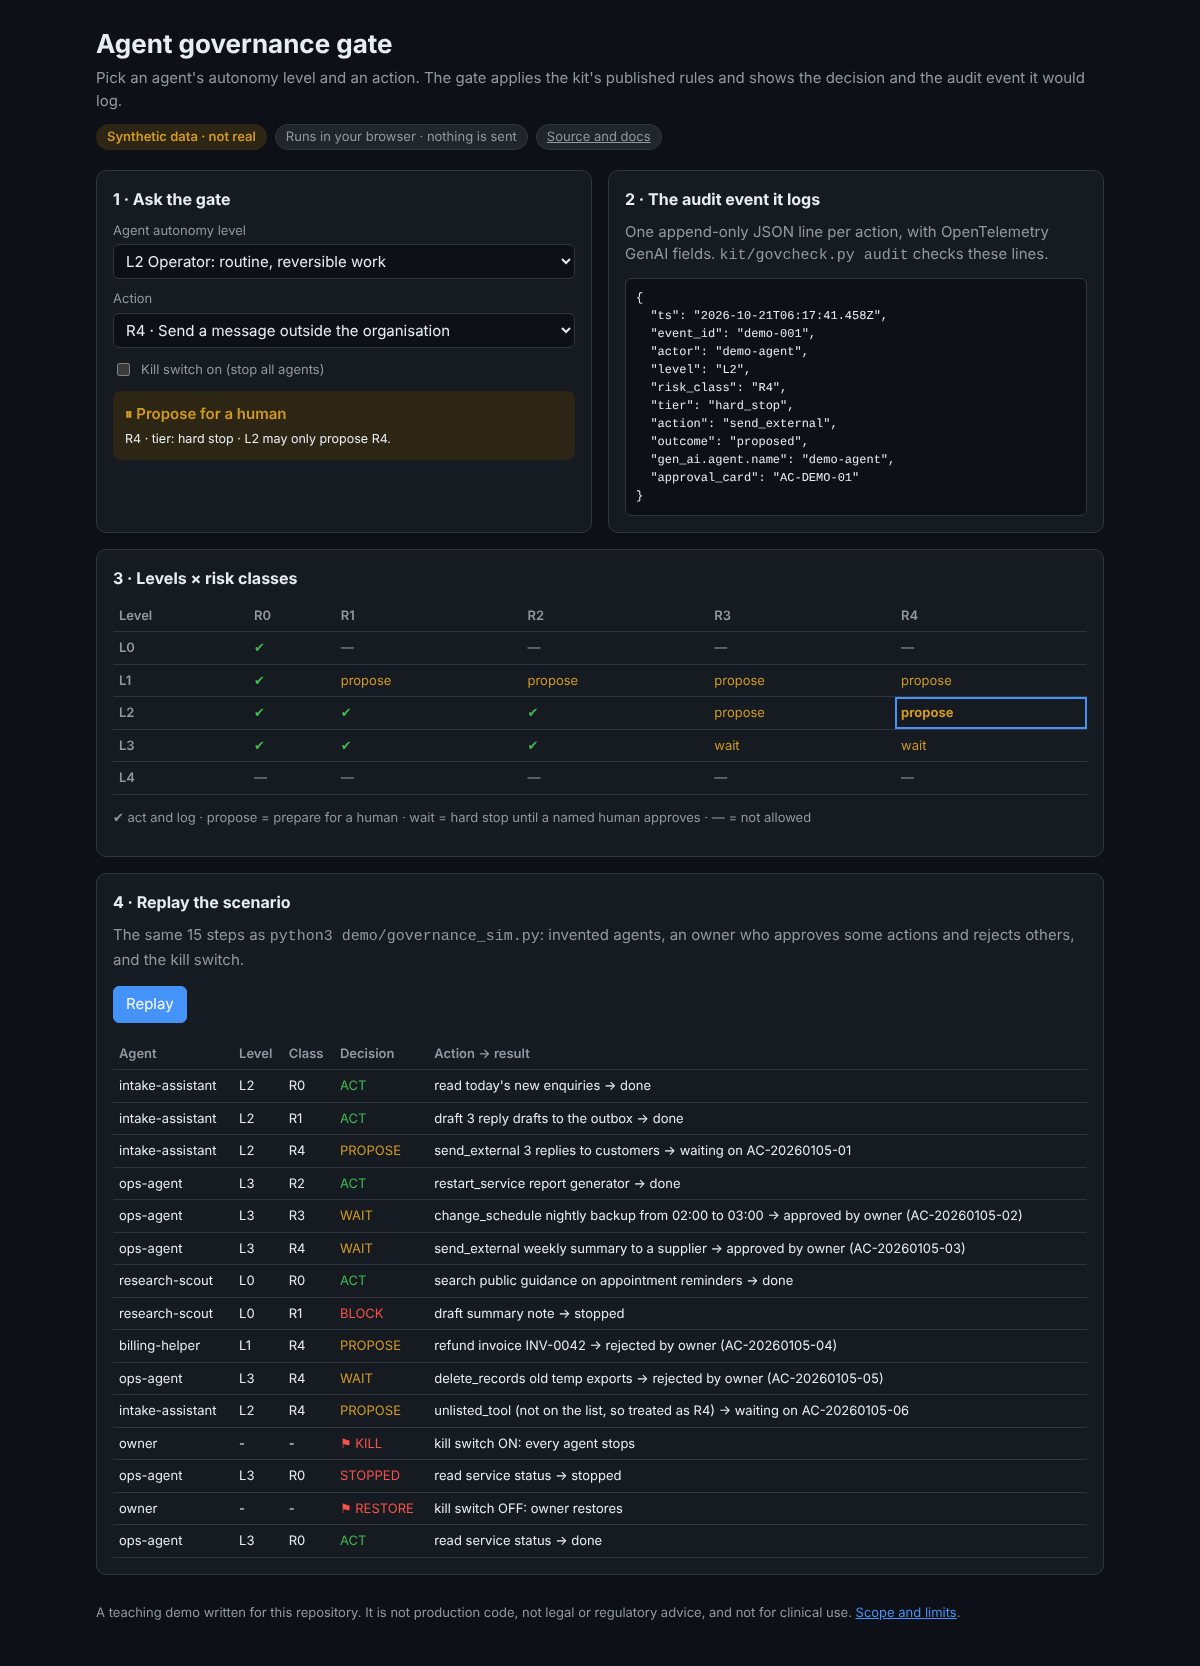
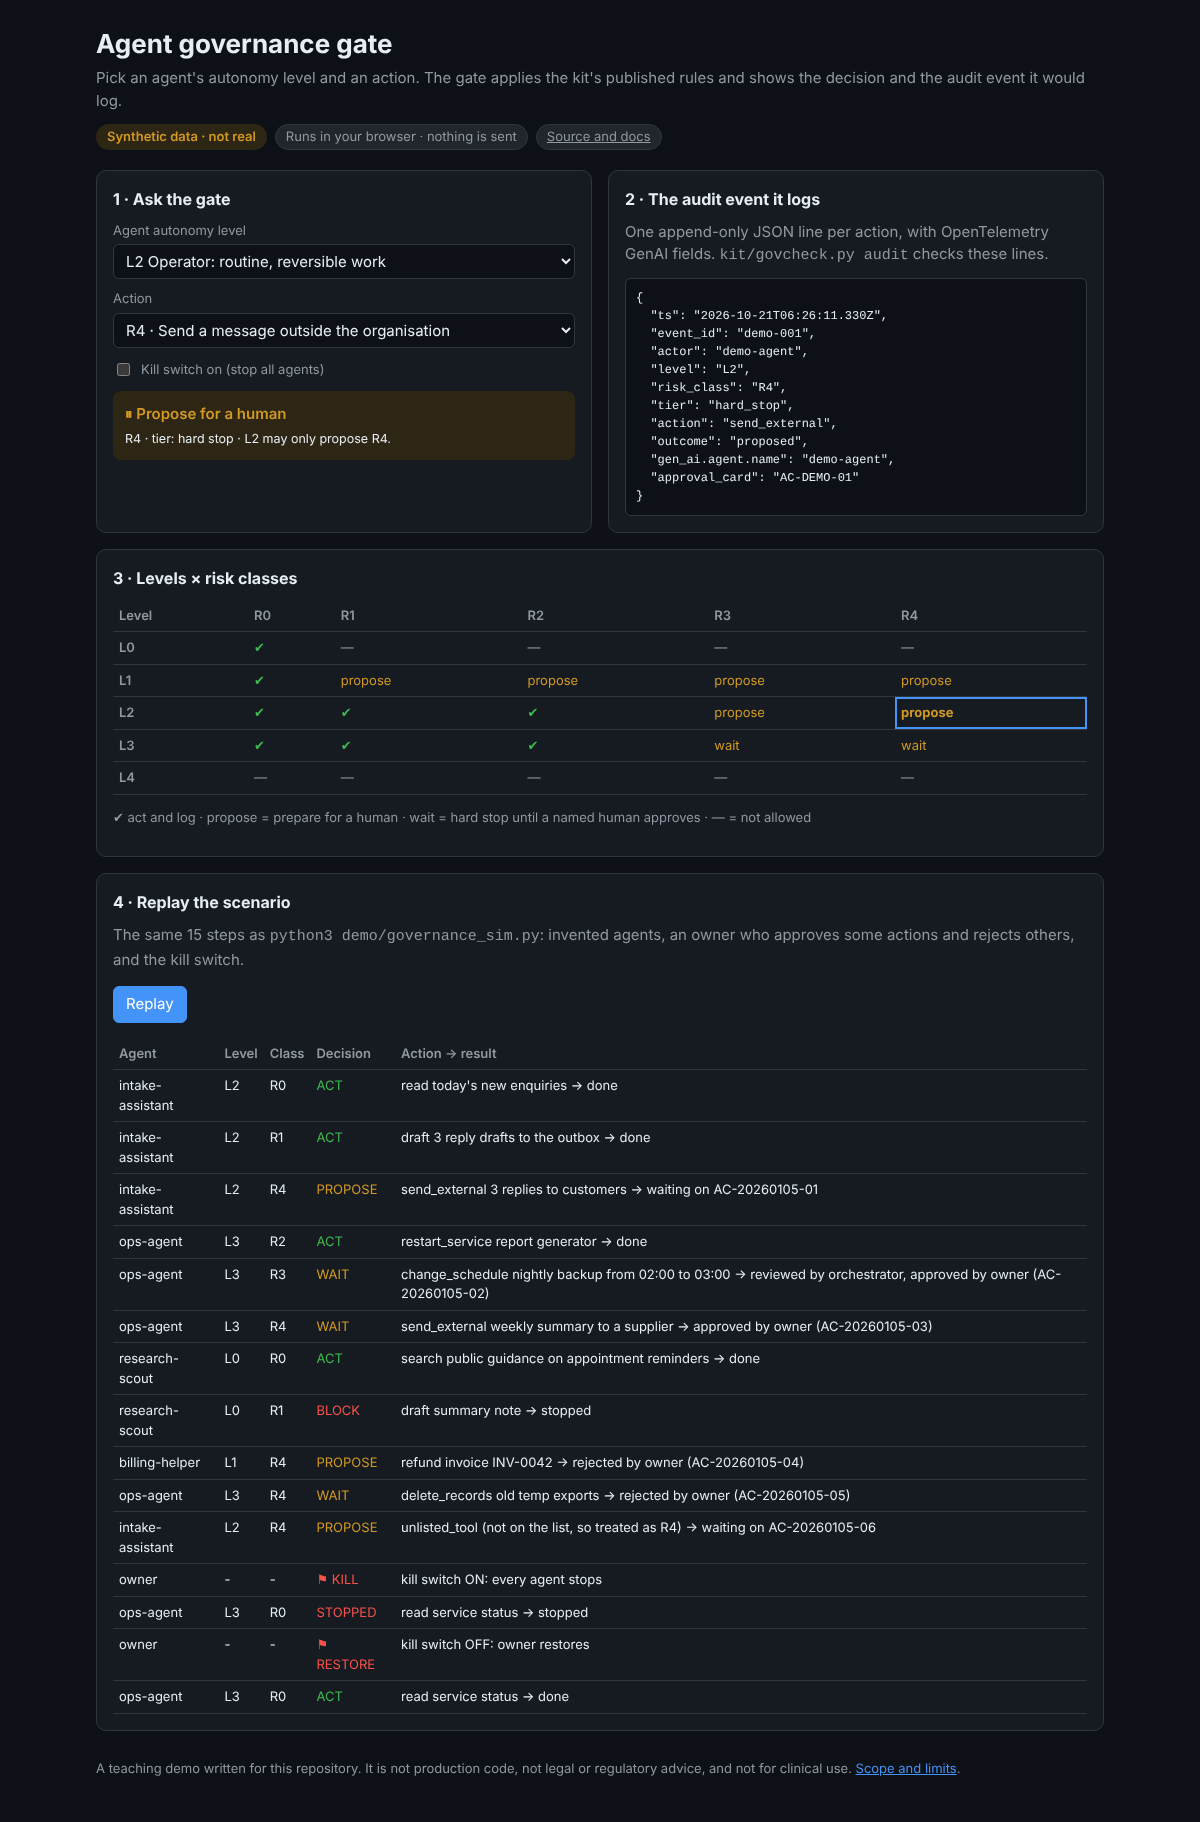
fix: address G4 review of the demo additions
- invented example values that cannot be mistaken for measured results; generic names
- terminal recording wraps long lines instead of cutting them; untrack __pycache__
- mobile layout, reduced motion, aria-live logs, safer DOM building in the calculator
- scope notes in AGENTS.md/TRUST.md; 'not for clinical use' on every demo page

Claude-Session: https://claude.ai/code/session_01Rs77ck8AWVGNB3vy8rZ9G6

diff --git a/site/index.html b/site/index.html
@@ -35,7 +35,7 @@
   <section class="card">
     <h2>2 · The audit event it logs</h2>
     <p class="dim" style="margin:0">One append-only JSON line per action, with OpenTelemetry GenAI fields. <code>kit/govcheck.py audit</code> checks these lines.</p>
-    <pre id="event" class="mono"></pre>
+    <pre id="event" class="mono" aria-live="polite"></pre>
   </section>
 
   <section class="card wide">
@@ -96,7 +96,7 @@ $("play").addEventListener("click",async()=>{
     const tr=document.createElement("tr");
     if(s[0]==="KILL"||s[0]==="RESTORE"){killed=s[0]==="KILL";tr.innerHTML="<td>owner</td><td>-</td><td>-</td><td class='bad'>⚑ "+s[0]+"</td><td>kill switch "+(killed?"ON: every agent stops":"OFF: owner restores")+"</td>"}
     else{const [ag,l,a,d,owner]=s,rc=classify(a),[v]=decide(l,rc,killed);let r="done";
-      if(v==="BLOCK"||v==="STOPPED")r="stopped";else if(v!=="ACT"){cards++;const c="AC-20260105-"+String(cards).padStart(2,"0");r=owner==="approve"?"approved by owner ("+c+")":owner==="reject"?"rejected by owner ("+c+")":"waiting on "+c}
+      if(v==="BLOCK"||v==="STOPPED")r="stopped";else if(v!=="ACT"){cards++;const c="AC-20260105-"+String(cards).padStart(2,"0");r=owner==="approve"?(rc==="R3"?"reviewed by orchestrator, ":"")+"approved by owner ("+c+")":owner==="reject"?"rejected by owner ("+c+")":"waiting on "+c}
       tr.innerHTML="<td>"+ag+"</td><td>"+l+"</td><td>"+rc+"</td><td class='"+({ACT:"ok",BLOCK:"bad",STOPPED:"bad"}[v]||"warn")+"'>"+v+"</td><td>"+a+" "+d+" → "+r+"</td>"}
     tb.appendChild(tr);await new Promise(r=>setTimeout(r,matchMedia("(prefers-reduced-motion: reduce)").matches?0:250));
   }

diff --git a/site/style.css b/site/style.css
@@ -6,7 +6,7 @@ a{color:var(--accent)}main{max-width:1040px;margin:0 auto;padding:24px 16px 48px
 header h1{font-size:26px;margin:0 0 4px}header p{margin:0;color:var(--dim)}
 .chips{display:flex;flex-wrap:wrap;gap:8px;margin:12px 0 0}.chip{background:var(--chip);border:1px solid var(--line);border-radius:999px;padding:2px 10px;font-size:13px;color:var(--dim)}
 .chip.warn{background:var(--warnbg);color:var(--warn);border-color:transparent;font-weight:600}
-.grid{display:grid;gap:16px;grid-template-columns:repeat(auto-fit,minmax(340px,1fr));margin-top:20px}
+.grid{display:grid;gap:16px;grid-template-columns:repeat(auto-fit,minmax(min(340px,100%),1fr));margin-top:20px}
 .card{background:var(--card);border:1px solid var(--line);border-radius:10px;padding:16px;min-width:0}.card h2{font-size:16px;margin:0 0 10px}
 .wide{grid-column:1/-1}label{display:block;font-size:13px;color:var(--dim);margin:10px 0 4px}
 select,input[type=number],input[type=range]{width:100%;font:inherit;color:var(--fg);background:var(--bg);border:1px solid var(--line);border-radius:6px;padding:6px 8px}
@@ -23,3 +23,4 @@ table{border-collapse:collapse;width:100%;font-size:13px}th,td{border-bottom:1px
 .bar{height:22px;border-radius:4px;background:var(--accent);min-width:2px;transition:width .3s}.bar.after{background:var(--ok)}
 .row{display:flex;gap:12px;flex-wrap:wrap}.row>*{flex:1 1 140px}
 .big{font-size:28px;font-weight:700}
+@media (prefers-reduced-motion:reduce){.bar{transition:none}}

diff --git a/scripts/term_svg.py b/scripts/term_svg.py
@@ -5,7 +5,7 @@ Usage:
     python3 scripts/term_svg.py OUT_PREFIX "TITLE" -- COMMAND [ARGS...]
 
 Writes OUT_PREFIX-light.svg and OUT_PREFIX-dark.svg. Lines appear one after another, then stay.
-Standard library only. The output shown is exactly what the command printed (ANSI codes stripped).
+Standard library only. The output shown is exactly what the command printed (ANSI codes stripped); long lines wrap, as in a terminal.
 """
 from __future__ import annotations
 
@@ -19,7 +19,7 @@ THEMES = {
     "light": {"bg": "#ffffff", "bar": "#eaeef2", "fg": "#1f2328", "dim": "#59636e", "ok": "#1a7f37", "bad": "#cf222e", "warn": "#9a6700", "border": "#d1d9e0"},
     "dark": {"bg": "#0d1117", "bar": "#161b22", "fg": "#e6edf3", "dim": "#9198a1", "ok": "#3fb950", "bad": "#f85149", "warn": "#d29922", "border": "#30363d"},
 }
-LINE_H, CHAR_W, PAD, BAR_H, MAX_COLS = 19, 7.8, 16, 30, 104
+LINE_H, CHAR_W, PAD, BAR_H, MAX_COLS = 19, 7.8, 16, 30, 120
 
 
 def colour(line: str, t: dict) -> str:
@@ -37,7 +37,13 @@ def colour(line: str, t: dict) -> str:
 
 def render(lines: list[str], title: str, theme: str, step: float = 0.18) -> str:
     t = THEMES[theme]
-    lines = [l[:MAX_COLS] for l in lines]
+    # Wrap long lines like a terminal does (nothing is cut off); colour follows the original line.
+    wrapped = []
+    for l in lines:
+        c = colour(l, t)
+        for k in range(0, max(len(l), 1), MAX_COLS):
+            wrapped.append((l[k:k + MAX_COLS], c))
+    lines = [w for w, _ in wrapped]
     width = int(PAD * 2 + CHAR_W * max(60, max((len(l) for l in lines), default=60)))
     height = BAR_H + PAD + LINE_H * len(lines) + PAD
     out = [
@@ -56,7 +62,7 @@ def render(lines: list[str], title: str, theme: str, step: float = 0.18) -> str:
     for i, line in enumerate(lines):
         y = BAR_H + PAD + LINE_H * (i + 0.8)
         out.append(
-            f'<text class="l" style="animation-delay:{i*step:.2f}s" x="{PAD}" y="{y:.1f}" fill="{colour(line, t)}" xml:space="preserve">{html.escape(line)}</text>'
+            f'<text class="l" style="animation-delay:{i*step:.2f}s" x="{PAD}" y="{y:.1f}" fill="{wrapped[i][1]}" xml:space="preserve">{html.escape(line)}</text>'
         )
     out.append("</svg>")
     return "\n".join(out) + "\n"

diff --git a/demo/governance_sim.py b/demo/governance_sim.py
@@ -105,14 +105,20 @@ class Gate:
         card = f"AC-20260105-{self.cards:02d}"
         self.log(outcome="proposed", approval_card=card, **base)
         if owner_says == "approve":
+            review = ""
+            if rc == "R3":  # R3 needs orchestrator review plus the owner (docs/risk-classes.md)
+                self.log(**{**base, "actor": "orchestrator", "action": f"review {action}", "gen_ai.agent.name": "orchestrator"},
+                         outcome="approved", approval_card=card, approver="orchestrator")
+                review = "reviewed by orchestrator, "
             self.log(outcome="done", approval_card=card, approver=self.owner, **base)
-            return d, f"approved by {self.owner} ({card})"
+            return d, f"{review}approved by {self.owner} ({card})"
         if owner_says == "reject":
             self.log(outcome="rejected", approval_card=card, approver=self.owner, **base)
             return d, f"rejected by {self.owner} ({card})"
         return d, f"waiting on {card}"
 
     def kill(self, on: bool) -> None:
+        # Demo choice: the switch itself is logged as an owner action of class R2 (reversible by design).
         self.killed = on
         self.log(actor=self.owner, level="human", risk_class="R2", tier="hard_stop",
                  action="kill switch " + ("on: stop all agents" if on else "off: restore"), outcome="done", approver=self.owner)

diff --git a/AGENTS.md b/AGENTS.md
@@ -3,7 +3,7 @@
 Guidance for AI coding agents and assistants working with this repository.
 
 - **What it is:** Governance framework for AI agents: autonomy levels L0-L4, risk classes R0-R4, approval tiers, kill switches, audit spine, promotion gate; mapped to OWASP, NIST AI RMF, ISO/IEC 42001; healthcare overlay for India; Python policy checker.
-- **What it is not:** It is not a certified compliance product and not legal advice. The healthcare overlay is engineering guidance, not clinical or regulatory sign-off.
+- **What it is not:** It is not a certified compliance product and not legal advice. The healthcare overlay is engineering guidance, not clinical or regulatory sign-off. `demo/` and `site/` are teaching demos on invented agents and actions.
 - **Checks:** run `bash scripts/check.sh` (secret scan, deny-list, link check, tests). Keep it green.
 - **Facts:** never add numbers, names or claims that are not already in this repository; the private source is not available to you.
 - **Privacy:** never add client names, personal data, prompts, configurations or credentials.

diff --git a/TRUST.md b/TRUST.md
@@ -7,7 +7,7 @@
 Framework documentation, templates and a small python checker. Teams that let AI agents touch real work and need autonomy levels, risk classes, approval tiers, kill switches and an audit spine they can adopt.
 
 ## Out of scope
-It is not a certified compliance product and not legal advice. The healthcare overlay is engineering guidance, not clinical or regulatory sign-off.
+It is not a certified compliance product and not legal advice. The healthcare overlay is engineering guidance, not clinical or regulatory sign-off. `demo/` and `site/` are teaching demos on invented agents and actions.
 
 ## Limitations
 - The standards mapping reflects the author's reading of OWASP, NIST AI RMF, ISO/IEC 42001 and India's DPDP Rules; verify with a qualified adviser.
